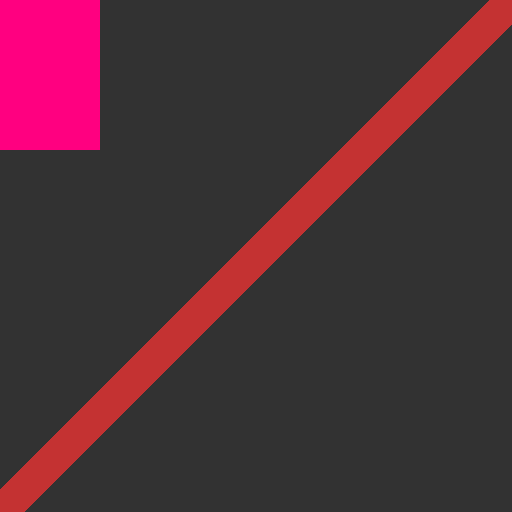
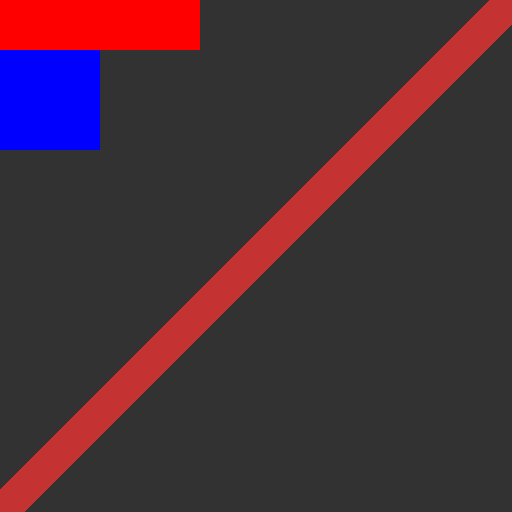
try to learn opencl

Changed region(s): [[0.0, 0.0, 0.4062, 0.3125]]

diff --git a/singularity_ui/examples/ocl_demo.rs b/singularity_ui/examples/ocl_demo.rs
@@ -1,14 +1,34 @@
-use ocl::enums::{
-    AddressingMode, FilterMode, ImageChannelDataType, ImageChannelOrder, MemObjectType,
+use image::Rgba;
+use ocl::{
+    enums::{DeviceSpecifier, ImageChannelDataType, ImageChannelOrder, MemObjectType},
+    prm::cl_uint,
+    Context, Device, Image, Kernel, OclVec, Program, Queue,
 };
-use ocl::{Context, Device, Image, Kernel, Program, Queue, Sampler};
-use std::path::Path;
+use std::{path::Path, sync::LazyLock};
 
 const SAVE_IMAGES_TO_DISK: bool = true;
 const BEFORE_IMAGE_FILE_NAME: &str = "./before_example_image.png";
 const AFTER_IMAGE_FILE_NAME: &str = "./after_example_image.png";
 
 const KERNEL_SRC: &str = include_str!("shader.cl");
+
+static CONTEXT: LazyLock<Context> = LazyLock::new(|| {
+    Context::builder()
+        .devices(Device::specifier().first())
+        .build()
+        .unwrap()
+});
+static DEVICE: LazyLock<Device> = LazyLock::new(|| CONTEXT.devices()[0]);
+static PROGRAM: LazyLock<Program> = LazyLock::new(|| {
+    Program::builder()
+        .src(KERNEL_SRC)
+        .devices(DEVICE.clone())
+        .build(&CONTEXT)
+        .unwrap()
+});
+/// not sure if this can be shared
+static QUEUE: LazyLock<Queue> =
+    LazyLock::new(|| Queue::new(&CONTEXT, DEVICE.clone(), None).unwrap());
 
 /// Generates a diagonal reddish stripe and a grey background.
 fn generate_image() -> image::ImageBuffer<image::Rgba<u8>, Vec<u8>> {
@@ -33,6 +53,47 @@ enum Element {
         height: u32,
     },
 }
+impl Element {
+    pub fn render(&self, dst_image: &Image<u8>, dims: &(u32, u32)) {
+        let kernel = match self {
+            Element::Triangle { inner_color } => Kernel::builder()
+                .program(&PROGRAM)
+                .name("draw_rectangle")
+                .queue(QUEUE.clone())
+                .global_work_size(dims)
+                .arg(100.0f32)
+                .arg(150.0f32)
+                .arg(dst_image)
+                .build()
+                .unwrap(),
+            Element::Rectangle {
+                inner_color,
+                width,
+                height,
+            } => Kernel::builder()
+                .program(&PROGRAM)
+                .name("draw_rectangle")
+                .queue(QUEUE.clone())
+                .global_work_size(dims)
+                .arg(ocl_core_vector::Uint4::new(
+                    inner_color.0[0].into(),
+                    inner_color.0[1].into(),
+                    inner_color.0[2].into(),
+                    inner_color.0[3].into(),
+                ))
+                .arg(width)
+                .arg(height)
+                .arg(dst_image)
+                .build()
+                .unwrap(),
+        };
+
+        println!("Attempting to run the gpu program...");
+        unsafe {
+            kernel.enq().unwrap();
+        }
+    }
+}
 
 /// Generates and image then sends it through a kernel and optionally saves.
 fn main() {
@@ -42,85 +103,32 @@ fn main() {
         img.save(&Path::new(BEFORE_IMAGE_FILE_NAME)).unwrap();
     }
 
-    let context = Context::builder()
-        .devices(Device::specifier().first())
-        .build()
-        .unwrap();
-    let device = context.devices()[0];
-    let queue = Queue::new(&context, device, None).unwrap();
-
-    let program = Program::builder()
-        .src(KERNEL_SRC)
-        .devices(device)
-        .build(&context)
-        .unwrap();
-
-    let sup_img_formats = Image::<u8>::supported_formats(
-        &context,
-        ocl::flags::MEM_READ_WRITE,
-        MemObjectType::Image2d,
-    )
-    .unwrap();
-    println!("Image formats supported: {}.", sup_img_formats.len());
-    // println!("Image Formats: {:#?}.", sup_img_formats);
-
     let dims = img.dimensions();
-
-    let src_image = Image::<u8>::builder()
-        .channel_order(ImageChannelOrder::Rgba)
-        .channel_data_type(ImageChannelDataType::UnormInt8)
-        .image_type(MemObjectType::Image2d)
-        .dims(dims)
-        .flags(
-            ocl::flags::MEM_READ_ONLY
-                | ocl::flags::MEM_HOST_WRITE_ONLY
-                | ocl::flags::MEM_COPY_HOST_PTR,
-        )
-        .copy_host_slice(&img)
-        .queue(queue.clone())
-        .build()
-        .unwrap();
 
     let dst_image = Image::<u8>::builder()
         .channel_order(ImageChannelOrder::Rgba)
-        .channel_data_type(ImageChannelDataType::UnormInt8)
+        .channel_data_type(ImageChannelDataType::UnsignedInt8)
         .image_type(MemObjectType::Image2d)
         .dims(dims)
-        .flags(
-            ocl::flags::MEM_WRITE_ONLY
-                | ocl::flags::MEM_HOST_READ_ONLY
-                | ocl::flags::MEM_COPY_HOST_PTR,
-        )
         .copy_host_slice(&img)
-        .queue(queue.clone())
+        .queue(QUEUE.clone())
         .build()
         .unwrap();
 
-    // Not sure why you'd bother creating a sampler on the host but here's how:
-    let sampler = Sampler::new(&context, false, AddressingMode::None, FilterMode::Nearest).unwrap();
-
-    let kernel = Kernel::builder()
-        .program(&program)
-        .name("draw_rectangle")
-        .queue(queue.clone())
-        .global_work_size(dims)
-        .arg(100.0 as f32)
-        .arg(150.0 as f32)
-        .arg(&dst_image)
-        .build()
-        .unwrap();
-
-    println!("Printing image info:");
-    println!("Src: {}", src_image);
-    println!();
-    println!("Dest: {}", src_image);
-    println!();
-
-    println!("Attempting to run the gpu program...");
-    unsafe {
-        kernel.enq().unwrap();
+    Element::Rectangle {
+        inner_color: Rgba([0, 0, 255, 255]),
+        width: 100,
+        height: 150,
     }
+    .render(&dst_image, &dims);
+    Element::Rectangle {
+        inner_color: Rgba([255, 0, 0, 255]),
+        width: 200,
+        height: 50,
+    }
+    .render(&dst_image, &dims);
 
+    // put dst_image onto img
     dst_image.read(&mut img).enq().unwrap();
 
     if SAVE_IMAGES_TO_DISK {

diff --git a/DEVLOG.md b/DEVLOG.md
@@ -879,3 +879,22 @@ Later on when I do multiple elements, I might just render each element and let e
 My shader code is most definitely suboptimal, but it is a good experience probably.
 
 Wow, I don't understand half of what I just "wrote" but it was surprisingly not as hard as I thought.
+The problem right now is that I don't understand the types and how to pass data to the gpu.
+To fix this, I will read [this tutorial on OpenCL](https://www.nersc.gov/assets/pubs_presos/MattsonTutorialSC14.pdf).
+This is what I gathered from the tutorial as well as the example code from ocl.
+- Levels of stuff (pg 11):
+  - Host calls the compute device, which consists of multiple work groups, which themselves consist of multiple work items. Each work item calls the kernel function once.
+  - Levels of memory:
+    - Host memory
+    - Global and constant memory: shared within the entire compute device
+    - Local memory: shared within a work group
+    - Private memory: individual for each work item
+    - This is pretty helpful, so I guess inputs marked as `__private` are individual for each work item, and the same thing for the other levels.
+- The cl kernel code starts at pg 41.
+- Vectors (eg `int4` is 4 integers, more like const sized arrays than rust vecs)
+  - I needed a seperate auxillary crate `ocl-core-vector` to send vectors as args
+- NOTE: `float` is rust f32
+- NOTE: when a type is marked with `*`, it is actually just a pointer so it would be equivalent to a rust `&` I think
+- `get_global_id(0)` returns the first work id, which is the x pixel in ocl. 1 is y.
+
+[Here](https://registry.khronos.org/OpenCL/specs/3.0-unified/html/OpenCL_C.html) is the documentation for open cl.
